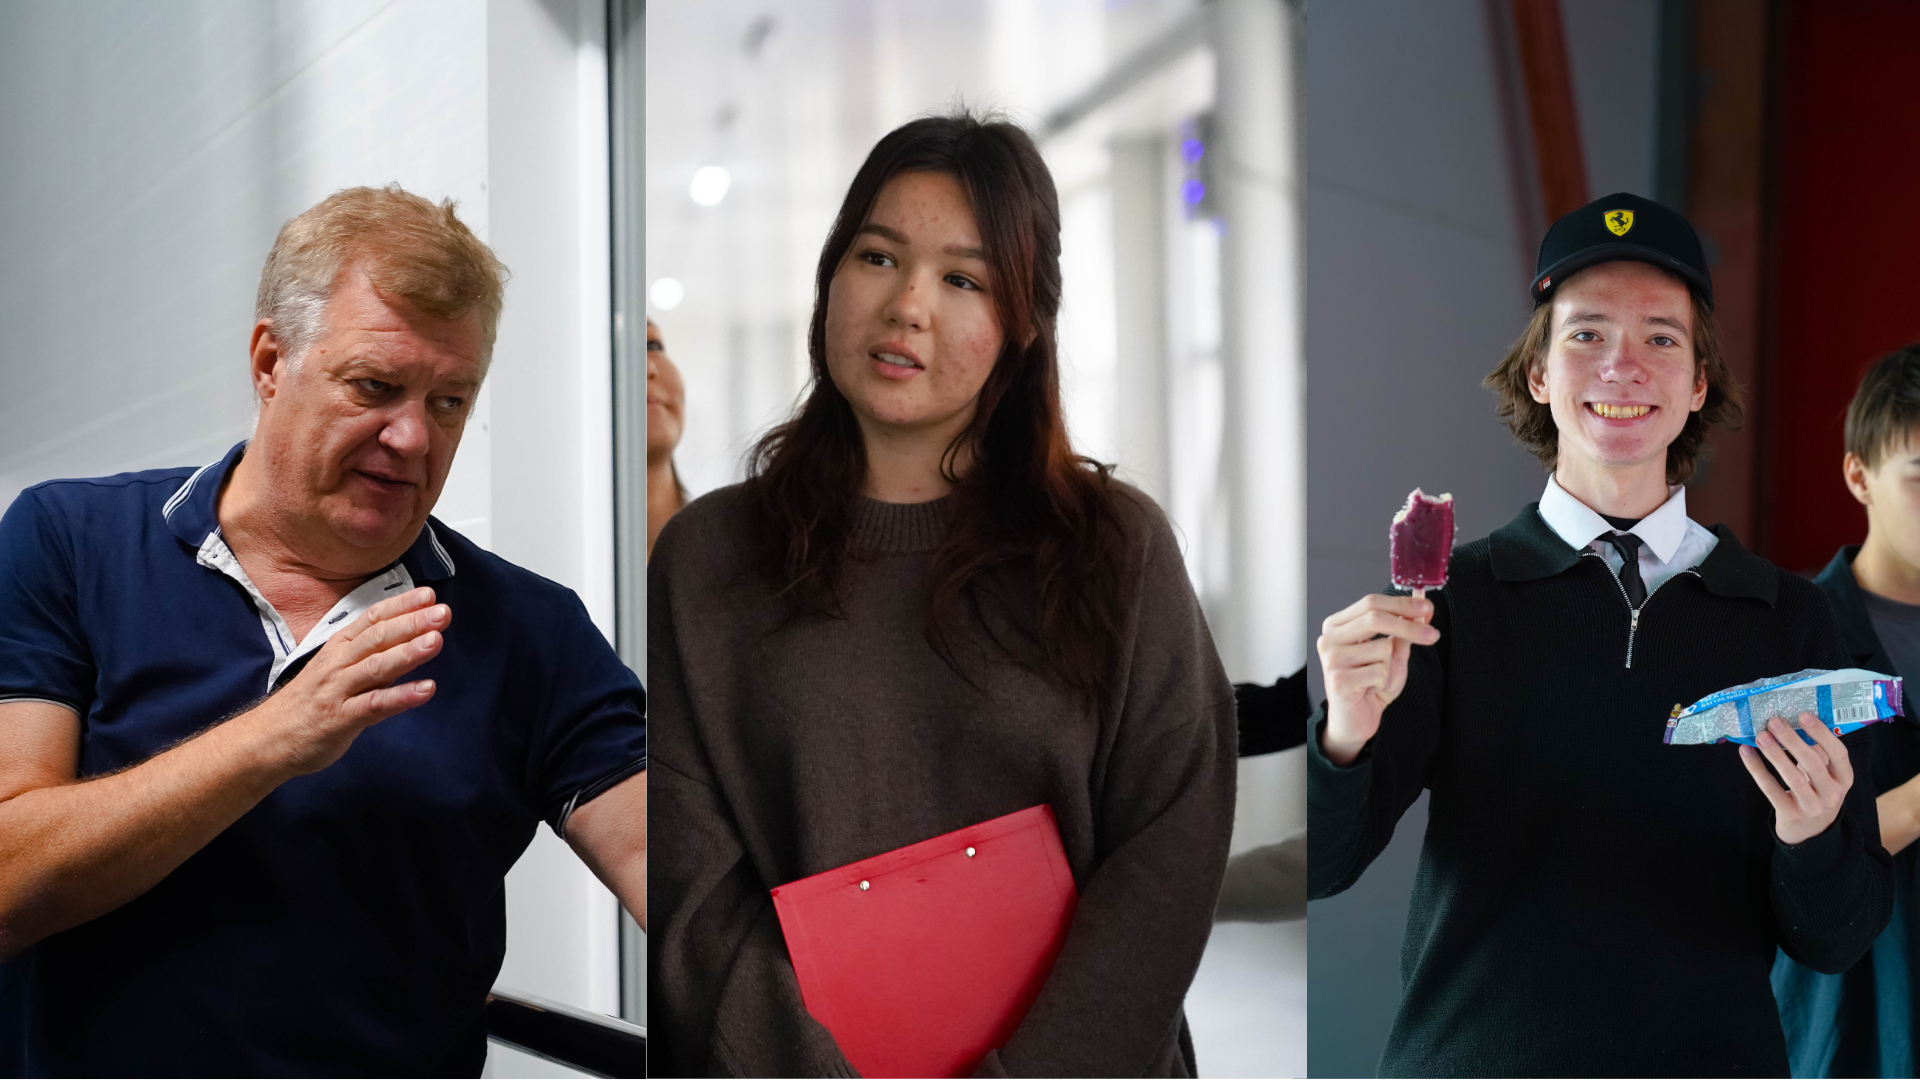
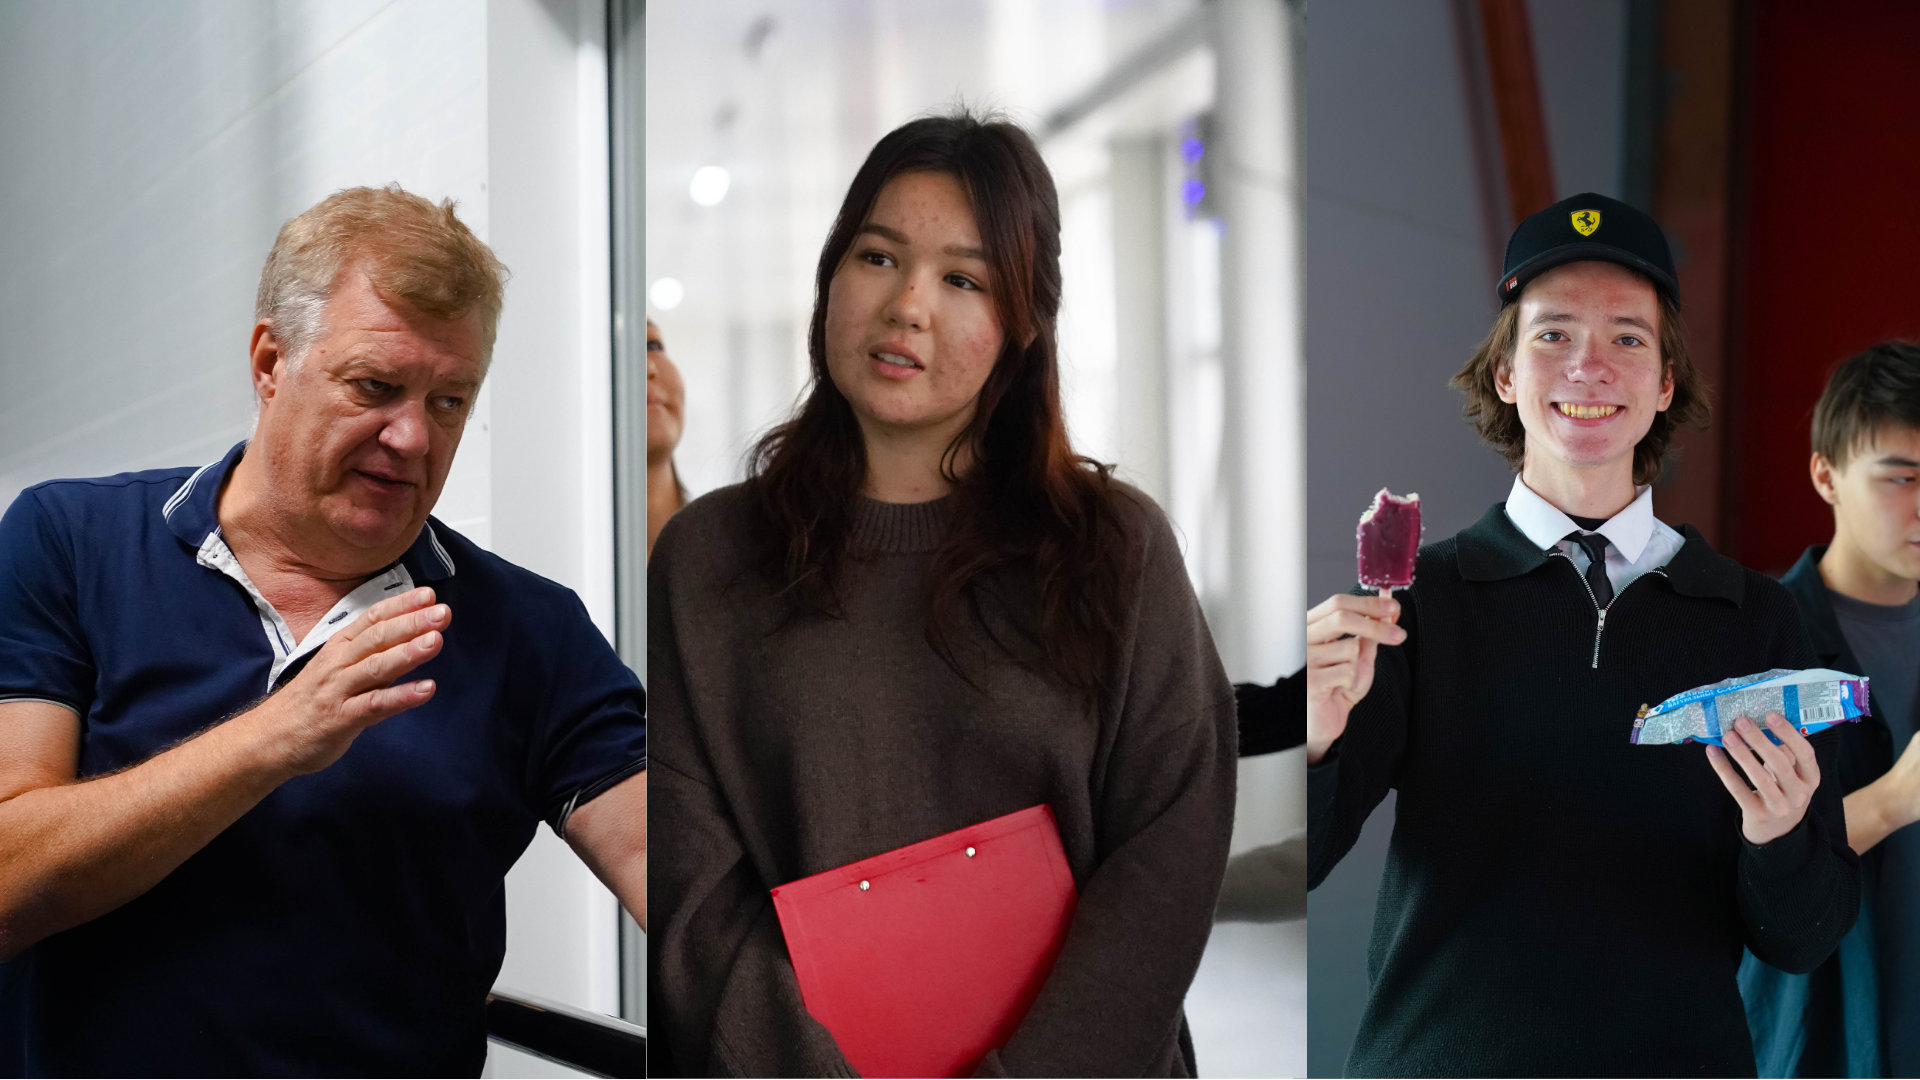
0.3.52

Changed region(s): [[0.6562, 0.0, 1.0, 1.0], [0.6875, 0.7333, 0.7812, 1.0]]

diff --git a/index.html b/index.html
@@ -3,11 +3,26 @@
 <head>
   <meta charset="UTF-8" />
   <meta name="viewport" content="width=device-width, initial-scale=1.0" />
-  <title>HTA | Готовим к реальной жизни</title>
+  <title>High Tech Academy — международная школа в Алматы | Korda Method | Minerva Baccalaureate</title>
   <meta
     name="description"
-    content="High Tech Academy - международная школа с проектным обучением, предпринимательским мышлением и Minerva Baccalaureate."
+    content="High Tech Academy (HTA) — международная частная школа в Алматы с полной аккредитацией CIS и WASC. Обучение по методу Korda Method, программе Minerva Baccalaureate и предпринимательству с проектным подходом."
   />
+  <meta name="robots" content="index, follow" />
+  <link rel="canonical" href="https://barusya228.github.io/landingPageHTA/" />
+  <link rel="alternate" hreflang="ru" href="https://barusya228.github.io/landingPageHTA/" />
+  <link rel="alternate" hreflang="x-default" href="https://barusya228.github.io/landingPageHTA/" />
+  <meta property="og:title" content="High Tech Academy — международная школа в Алматы | Korda Method School" />
+  <meta property="og:description" content="Международная частная школа в Алматы с аккредитацией CIS и WASC. Проектное обучение по Korda Method, Minerva Baccalaureate и предпринимательству." />
+  <meta property="og:type" content="website" />
+  <meta property="og:url" content="https://barusya228.github.io/landingPageHTA/" />
+  <meta property="og:image" content="https://barusya228.github.io/landingPageHTA/logo/logo-HTA.png" />
+  <meta property="og:locale" content="ru_KZ" />
+  <meta property="og:site_name" content="High Tech Academy" />
+  <meta name="twitter:card" content="summary_large_image" />
+  <meta name="twitter:title" content="High Tech Academy — международная школа в Алматы | Korda Method School" />
+  <meta name="twitter:description" content="Международная частная школа в Алматы с аккредитацией CIS и WASC. Проектное обучение по Korda Method, Minerva Baccalaureate и предпринимательству." />
+  <meta name="twitter:image" content="https://barusya228.github.io/landingPageHTA/logo/logo-HTA.png" />
   <link rel="preconnect" href="https://fonts.googleapis.com" />
   <link rel="preconnect" href="https://fonts.gstatic.com" crossorigin />
   <link
@@ -61,11 +76,11 @@
 
   <main>
     <section id="hero" class="hero">
-      <img class="hero-image" src="./images/Банер/главная.jpg" alt="" loading="eager" fetchpriority="high" />
+      <img class="hero-image" src="./images/Банер/главная.jpg" alt="High Tech Academy — международная школа в Алматы" loading="eager" fetchpriority="high" />
       <div class="hero-slider" aria-hidden="true">
-        <img class="hero-image hero-slide is-active" src="./images/Банер/младшая.jpg" alt="" loading="eager" fetchpriority="high" />
-        <img class="hero-image hero-slide" src="./images/Банер/средняя.jpeg" alt="" loading="eager" fetchpriority="high" />
-        <img class="hero-image hero-slide" src="./images/Банер/старшая.jpg" alt="" loading="eager" fetchpriority="high" />
+        <img class="hero-image hero-slide is-active" src="./images/Банер/младшая.jpg" alt="Младшая школа HTA" loading="eager" fetchpriority="high" />
+        <img class="hero-image hero-slide" src="./images/Банер/средняя.jpeg" alt="Средняя школа HTA" loading="eager" fetchpriority="high" />
+        <img class="hero-image hero-slide" src="./images/Банер/старшая.jpg" alt="Старшая школа HTA" loading="eager" fetchpriority="high" />
       </div>
       <div class="hero-overlay" aria-hidden="true"></div>
 
@@ -89,18 +104,18 @@
     <section id="about" class="section section-why">
       <div class="container why-grid">
         <div class="why-copy">
-          <h1 class="section-subtitle">
+          <h2 class="section-subtitle">
             Мир изменился...<br />
             Школа должна меняться вместе с ним
-          </h1>
+          </h2>
           <p class="section-lead">
             Десятилетиями успех в школе означал: запомни информацию, 
             выполни инструкцию, дай единственный правильный ответ. Этот подход безнадежно устарел
           </p>
           <p class="section-lead">
             Сегодня ИИ создает тексты, алгоритмы и решения быстрее любого эксперта.
-            Главный вопрос для родителя сейчас не в том, что будет знать мой ребенок, 
-            а что мой ребенок будет уметь делать с полученными знаниями
+            Главный вопрос для родителя сейчас - не что будет знать мой ребенок, 
+            а что он будет уметь делать с этими знаниями
           </p>
           <div class="quote-row why-quote">
             <div class="quote-mark" aria-hidden="true">“</div>
@@ -139,7 +154,7 @@
             <h3>Перемены - новая норма</h3>
             <p>
               Через 10 лет появятся профессии, которые еще не существуют. 
-              Школа должна готовить учеников к жизни в мире, который заменяет ИИ
+              Школа должна готовить учеников к жизни в мире, который меняет ИИ
             </p>
           </article>
         </div>
@@ -173,10 +188,10 @@
       <div class="korda-section-grid">
         <div class="korda-text-column">
           <p class="label section-title-left">Korda Method</p>
-          <h1 class="section-subtitle">
+          <h2 class="section-subtitle">
             Навыки развиваются через<br/>
             практику и действие
-          </h1>
+          </h2>
 
           <div class="korda-intro-line">
             <img
@@ -238,22 +253,22 @@
       <div class="container entrepreneur-grid">
         <div class="slider-image" id="entrepreneurship-slider">
           <div class="slider-track">
-            <img src="./images/Курс по предпринимательству/Air Solutin.jpg" alt="" loading="lazy" class="is-active" />
-            <img src="./images/Курс по предпринимательству/AIR Solution.jpg" alt="" loading="lazy" />
-            <img src="./images/Курс по предпринимательству/UvU 3.jpg" alt="" loading="lazy" />
-            <img src="./images/Курс по предпринимательству/Уву проект 2025-2026.png" alt="" loading="lazy" />
-            <img src="./images/Курс по предпринимательству/UvU транспорт.jpg" alt="" loading="lazy" />
-            <img src="./images/Курс по предпринимательству/Амиран 2.jpg" alt="" loading="lazy" />
-            <img src="./images/Курс по предпринимательству/Проект Платформа 2024-2025.png" alt="" loading="lazy" />
-            <img src="./images/Курс по предпринимательству/Шин-Лайн проект2024-2025.png" alt="" loading="lazy" />
-            <img src="./images/Курс по предпринимательству/Barytan AI 2025 26.png" alt="" loading="lazy" />
+            <img src="./images/Курс по предпринимательству/Air Solutin.jpg" alt="Проект по предпринимательству" loading="lazy" class="is-active" />
+            <img src="./images/Курс по предпринимательству/AIR Solution.jpg" alt="Проект по предпринимательству" loading="lazy" />
+            <img src="./images/Курс по предпринимательству/UvU 3.jpg" alt="Проект по предпринимательству" loading="lazy" />
+            <img src="./images/Курс по предпринимательству/Уву проект 2025-2026.png" alt="Проект по предпринимательству" loading="lazy" />
+            <img src="./images/Курс по предпринимательству/UvU транспорт.jpg" alt="Проект по предпринимательству" loading="lazy" />
+            <img src="./images/Курс по предпринимательству/Амиран 2.jpg" alt="Проект по предпринимательству" loading="lazy" />
+            <img src="./images/Курс по предпринимательству/Проект Платформа 2024-2025.png" alt="Проект по предпринимательству" loading="lazy" />
+            <img src="./images/Курс по предпринимательству/Шин-Лайн проект2024-2025.png" alt="Проект по предпринимательству" loading="lazy" />
+            <img src="./images/Курс по предпринимательству/Barytan AI 2025 26.png" alt="Проект по предпринимательству" loading="lazy" />
           </div>
           <div class="slider-dots" aria-label="Навигация по фотографиям курса"></div>
         </div>
 
         <div class="entrepreneur-copy">
           <p class="label section-title-left">Курс по предпринимательству</p>
-          <h1 class="section-subtitle">Мышление, которое необходимо людям, когда будущее невозможно предсказать</h1>
+          <h2 class="section-subtitle">Мышление, которое необходимо людям, когда будущее невозможно предсказать</h2>
           <p class="section-lead">
             За год ученики проходят путь от реальных задач казахстанского бизнеса
             до собственного стартапа, развивают предпринимательские навыки и учатся
@@ -411,10 +426,10 @@
           <img src="./logo/MBacc.png" alt="Minerva Baccalaureate" width="140" height="60" loading="lazy" />
         </div>
         <p class="label section-title-left">Minerva Baccalaureate</p>
-        <h1 class="section-subtitle">
+        <h2 class="section-subtitle">
           Программа повышенной академической сложности<br/>
           для старшей школы
-        </h1>
+        </h2>
         <div class="lime-rule" aria-hidden="true"></div>
 
         <div class="minerva-grid">
@@ -894,6 +909,35 @@
 
       renderSlide(0);
     });
+  </script>
+  <script type="application/ld+json">
+  {
+    "@context": "https://schema.org",
+    "@type": "EducationalOrganization",
+    "name": "High Tech Academy",
+    "alternateName": ["HTA", "High Tech Academy Алматы"],
+    "legalName": "ТОО «Школа 21 века»",
+    "description": "Международная частная школа в Алматы с полной аккредитацией CIS и WASC. Проектное обучение по методу Korda Method, программа Minerva Baccalaureate и предпринимательство для старшей школы.",
+    "url": "https://barusya228.github.io/landingPageHTA/",
+    "logo": "https://barusya228.github.io/landingPageHTA/logo/logo-HTA.png",
+    "image": "https://barusya228.github.io/landingPageHTA/images/Банер/главная.jpg",
+    "telephone": "+7-771-747-18-81",
+    "email": "info@hta.kz",
+    "address": {
+      "@type": "PostalAddress",
+      "addressLocality": "Алматы",
+      "addressCountry": "KZ"
+    },
+    "sameAs": [
+      "https://www.instagram.com/hta.kz",
+      "https://www.facebook.com/people/High-Tech-Academy/61563897284883/",
+      "https://www.youtube.com/channel/UCAAhNxRHrwwhFYMT9qIJ7AA/featured",
+      "https://www.tiktok.com/@high.tech.academy1",
+      "https://www.linkedin.com/company/high-tech-academy-almaty/"
+    ],
+    "knowsAbout": ["Korda Method", "Minerva Baccalaureate", "Предпринимательство", "Проектное обучение", "Международное образование"],
+    "accreditation": ["CIS", "WASC"]
+  }
   </script>
 </body>
 </html>

diff --git a/styles.css b/styles.css
@@ -150,7 +150,7 @@ button {
 
 .brand img {
   display: block;
-  height: 58px;
+  height: 64px;
   width: auto;
   object-fit: contain;
 }
@@ -208,7 +208,7 @@ button {
 
 .header-korda-logo {
   display: block;
-  height: 48px;
+  height: 58px;
   width: auto;
   flex: 0 0 auto;
   object-fit: contain;
@@ -2682,36 +2682,31 @@ main > .instagram-line {
   }
 
   .community-slider__arrow {
-    position: absolute;
-    top: 50%;
-    z-index: 2;
-    width: 42px;
-    height: 42px;
-    flex-basis: 42px;
-    transform: translateY(-50%);
-  }
-
-  .community-slider__arrow:hover,
-  .community-slider__arrow:focus-visible {
-    transform: translateY(-50%);
-  }
-
-  .community-slider__arrow--prev {
-    left: 10px;
-  }
-
-  .community-slider__arrow--next {
-    right: 10px;
+    display: none;
   }
 
   .community-slider__dots {
-    margin-top: 14px;
-    gap: 8px;
+    margin-top: 16px;
+    gap: 10px;
   }
 
   .community-slider__dot {
     width: 10px;
     height: 10px;
+    min-width: 36px;
+    min-height: 36px;
+    padding: 0;
+    background: radial-gradient(circle, rgba(68, 68, 68, 0.28) 0%, rgba(68, 68, 68, 0.28) 5px, transparent 5px);
+    transition: background 0.25s ease;
+  }
+
+  .community-slider__dot.is-active {
+    width: 28px;
+    height: 10px;
+    min-width: 44px;
+    min-height: 36px;
+    border-radius: 999px;
+    background: var(--green);
   }
 }
 
@@ -3946,6 +3941,8 @@ main > .instagram-line {
 
   .footer-nav {
     gap: 12px;
+    padding-left: 24px;
+    box-sizing: border-box;
   }
 
   .footer-nav a {
